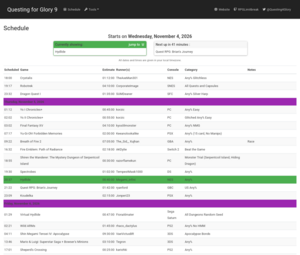
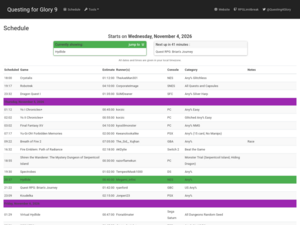
decide on theme mapping

diff --git a/docs/development.md b/docs/development.md
@@ -21,3 +21,10 @@ You should now have a working local instance of Horaro. You will be able to log 
 ## Note on vue controllers
 
 When you add, rename or remove a vue controller you will need to run `php bin/console cache:clear`. Symfony caches known vue components.
+
+## Resizing theme images
+uses imagemagick
+
+```bash
+convert minty.png -resize 300x225^ -gravity north -extent 300x225 minty-small.png
+```

diff --git a/docs/bootstrap_4_upgrade.md b/docs/bootstrap_4_upgrade.md
@@ -3,10 +3,10 @@
 - new themes
 - switch removed old themes to compatible new themes.
   - Deleted:
-    - Amelia
-    - Paper
-    - Readable
-  - New (need images):
+    - Amelia -> sketchy
+    - Paper -> cosmo
+    - Readable -> journal
+  - New:
     - Lux *
     - Materia *
     - Minty *
